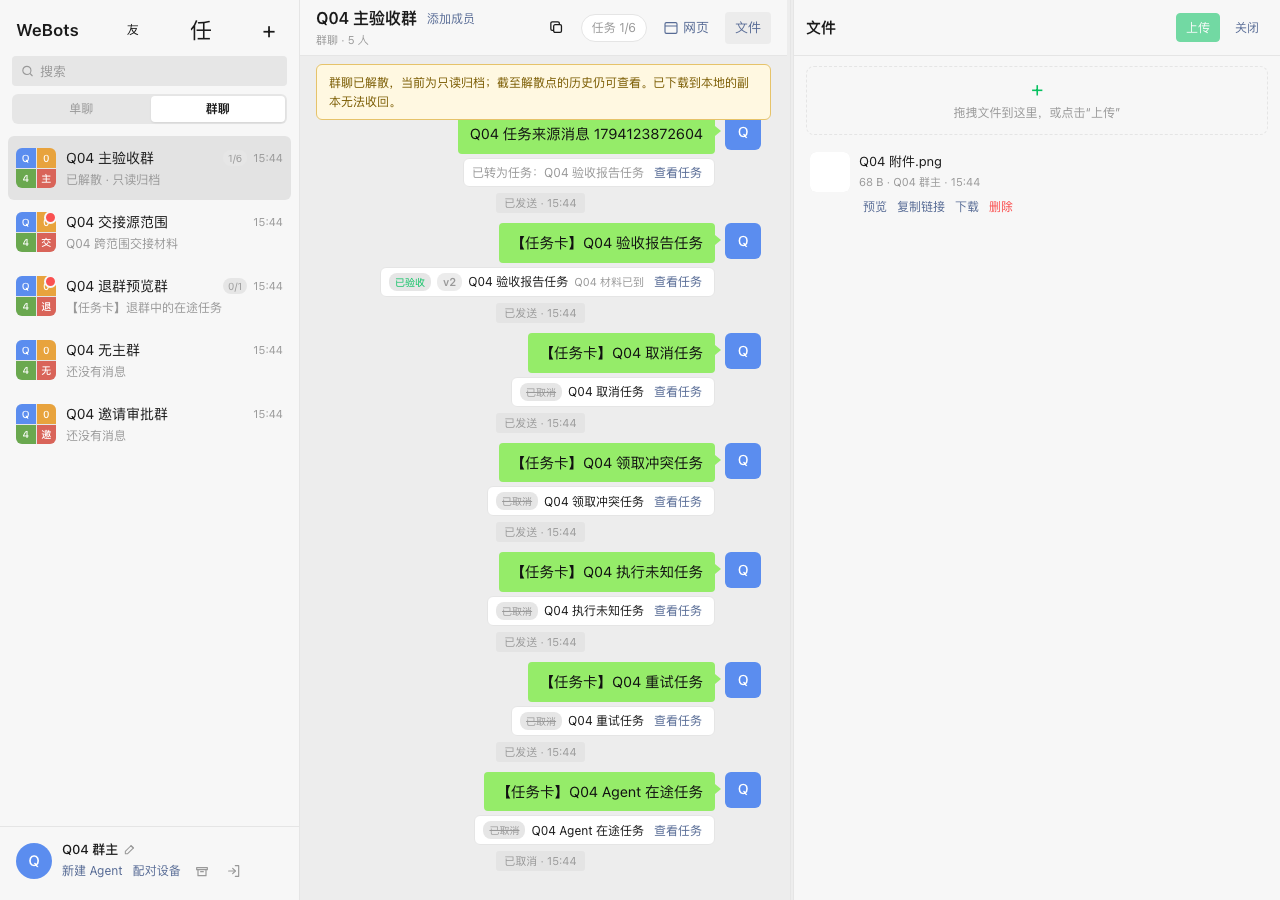
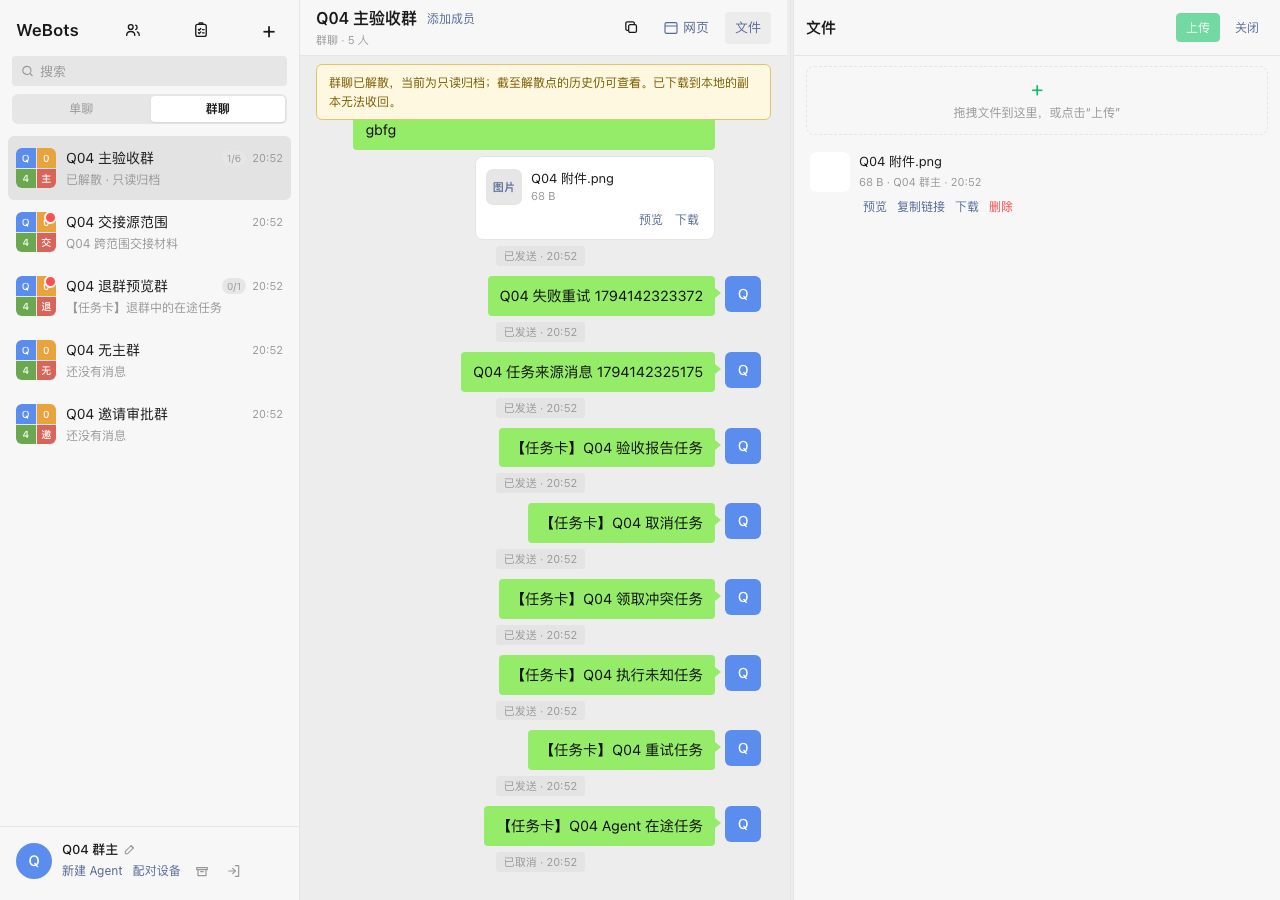
fix(web): 转为任务入口统一 hover 显示
- 人类与 Agent 消息的「转为任务」统一默认收起，hover/focus 显示；触屏保留人类入口。\n- 手动展开全文在读取与渲染后校验 activeRoomId/roomEpoch 与节点连接，切房后的旧响应不再写入新房间状态栏、气泡或文件卡片。\n- 补充浏览器验收：入口可见性、触屏可达、390px 不溢出与切房展开回归。\n- 同步 Q04 证据截图。

Changed region(s): [[0.25, 0.1244, 0.5938, 0.9644], [0.4688, 0.0, 0.5, 0.0311], [0.3125, 0.3111, 0.3438, 0.3422]]

diff --git a/scripts/verify-web.ts b/scripts/verify-web.ts
@@ -10069,7 +10069,7 @@ async function main(): Promise<void> {
       await context.close();
     }
 
-    // 2b-4b. 转为任务入口：人类常显，Agent 默认收起、hover/键盘出现，触屏仅人类可见。
+    // 2b-4b. 转为任务入口：人类与 Agent 默认收起、hover/键盘出现，触屏仅人类可见。
     {
       const convertGroup = await rawTool<RoomDetail>(data.humanToken, 'network_room_create', {
         request_id: requestId('room'),
@@ -10106,11 +10106,18 @@ async function main(): Promise<void> {
         'agent',
       );
       checkEqual(
-        '人类消息转为任务常显',
+        '人类消息转为任务默认收起',
         await humanMessage.locator('.msg-task-convert').evaluate(
           (element) => getComputedStyle(element).opacity,
         ),
-        '1',
+        '0',
+      );
+      checkEqual(
+        '人类消息转为任务默认不接收指针',
+        await humanMessage.locator('.msg-task-convert').evaluate(
+          (element) => getComputedStyle(element).pointerEvents,
+        ),
+        'none',
       );
       checkEqual(
         'Agent 消息转为任务默认收起',
@@ -10119,6 +10126,24 @@ async function main(): Promise<void> {
         ),
         '0',
       );
+      await humanMessage.hover();
+      await waitUntil(
+        async () =>
+          (await humanMessage.locator('.msg-task-convert').evaluate(
+            (element) => getComputedStyle(element).opacity,
+          )) === '1',
+        '人类消息 hover 显示转为任务',
+        5_000,
+      );
+      check('人类消息 hover 显示转为任务', true);
+      await humanMessage.locator('.msg-task-convert').click();
+      await page.locator('#task-create-modal').waitFor({ state: 'visible' });
+      check(
+        '人类消息转为任务仍打开来源任务表单',
+        ((await page.locator('#task-source-hint').innerText()) ?? '').includes('从消息创建'),
+      );
+      await page.locator('#task-create-cancel').click();
+      await page.locator('#task-create-modal').waitFor({ state: 'hidden' });
       await agentMessage.hover();
       await waitUntil(
         async () =>
@@ -10146,6 +10171,13 @@ async function main(): Promise<void> {
         '移出 hover 后 Agent 任务入口收起',
         5_000,
       );
+      checkEqual(
+        '移出 hover 后人类任务入口收起',
+        await humanMessage.locator('.msg-task-convert').evaluate(
+          (element) => getComputedStyle(element).opacity,
+        ),
+        '0',
+      );
       await agentMessage.locator('.msg-task-convert').focus();
       checkEqual(
         '键盘聚焦 Agent 任务入口时显示',
@@ -10158,6 +10190,14 @@ async function main(): Promise<void> {
       await page.locator('#task-create-modal').waitFor({ state: 'visible' });
       check('键盘可触发 Agent 消息转为任务', true);
       await page.locator('#task-create-cancel').click();
+      await humanMessage.locator('.msg-task-convert').focus();
+      checkEqual(
+        '键盘聚焦人类任务入口时显示',
+        await humanMessage.locator('.msg-task-convert').evaluate(
+          (element) => getComputedStyle(element).opacity,
+        ),
+        '1',
+      );
       await context.close();
 
       const touchContext = await browser.newContext({
@@ -10184,8 +10224,32 @@ async function main(): Promise<void> {
         true,
       );
       checkEqual(
+        '触屏人类消息转为任务常显',
+        await touchHuman.locator('.msg-task-convert').evaluate(
+          (element) => getComputedStyle(element).opacity,
+        ),
+        '1',
+      );
+      checkEqual(
+        '触屏人类消息转为任务可点击',
+        await touchHuman.locator('.msg-task-convert').evaluate(
+          (element) => getComputedStyle(element).pointerEvents,
+        ),
+        'auto',
+      );
+      await touchHuman.locator('.msg-task-convert').click();
+      await touchPage.locator('#task-create-modal').waitFor({ state: 'visible' });
+      check('触屏人类消息可打开来源任务表单', true);
+      await touchPage.locator('#task-create-cancel').click();
+      await touchPage.locator('#task-create-modal').waitFor({ state: 'hidden' });
+      checkEqual(
         '触屏 Agent 消息隐藏转为任务',
         await touchAgent.locator('.msg-task-convert').isHidden(),
+        true,
+      );
+      checkEqual(
+        '390px 消息任务入口不横向溢出',
+        await touchPage.evaluate(`document.documentElement.scrollWidth <= window.innerWidth`),
         true,
       );
       await touchContext.close();
@@ -17985,6 +18049,106 @@ async function main(): Promise<void> {
       );
       check('自动展开失败恢复后可手动展开', true);
       await failContext.context.close();
+
+      // 手动展开读取延迟期间切房：旧失败不得写入新房间状态栏与消息区。
+      const switchTarget = await rawTool<RoomDetail>(data.humanToken, 'network_room_create', {
+        request_id: requestId('room'),
+        kind: 'group',
+        title: '展开切房目标群',
+        members: [data.agentA.actor_id],
+      });
+      const switchTargetId = switchTarget.room.room_id;
+      await acceptRoomInvites(data.agentAToken, switchTargetId);
+      const switchTargetMarker = '展开切房后的新房间消息';
+      await sendRoomMessage(data.agentAToken, switchTargetId, switchTargetMarker);
+      const staleMarker = '切房前手动展开失败标记';
+      const staleTail = '切房前手动展开的结尾';
+      const staleSend = await rawTool<{ message: { message_id: string } }>(
+        data.humanToken,
+        'network_message_send',
+        {
+          request_id: requestId('msg'),
+          client_message_id: crypto.randomUUID(),
+          room_id: mdRoomId,
+          invoke: [],
+          body: [staleMarker, '切房前长正文 '.repeat(200), staleTail].join('\n'),
+        },
+      );
+      const staleMessageId = staleSend.message.message_id;
+      const staleContext = await makeContext(
+        browser,
+        data.humanToken,
+        { width: 1280, height: 900 },
+        allErrors,
+      );
+      let releaseStaleRead: (() => void) | null = null;
+      let staleReadStarted = false;
+      await staleContext.page.route('**/mcp', async (route) => {
+        const request = route.request();
+        if (request.headers()['mcp-name'] !== 'network_message_read') {
+          await route.continue();
+          return;
+        }
+        const body = request.postDataJSON() as {
+          id?: unknown;
+          params?: { arguments?: { message_id?: string } };
+        } | null;
+        if (body?.params?.arguments?.message_id !== staleMessageId) {
+          await route.continue();
+          return;
+        }
+        staleReadStarted = true;
+        await new Promise<void>((resolve) => {
+          releaseStaleRead = resolve;
+        });
+        await route.fulfill({
+          status: 200,
+          contentType: 'application/json',
+          body: JSON.stringify({
+            jsonrpc: '2.0',
+            id: body?.id ?? null,
+            result: {
+              isError: true,
+              content: [
+                {
+                  type: 'text',
+                  text: JSON.stringify({ code: 'INTERNAL', message: '模拟切房后展开失败' }),
+                },
+              ],
+            },
+          }),
+        });
+      });
+      await staleContext.page.goto(`${server.base}/c/${mdRoomId}`);
+      await waitRoom(staleContext.page, mdRoomId, 'AI Markdown 群');
+      const staleMessage = staleContext.page
+        .locator('#messages .msg')
+        .filter({ hasText: staleMarker })
+        .last();
+      await staleMessage.locator('.expand').waitFor();
+      await staleMessage.locator('.expand').click();
+      await waitUntil(
+        () => staleReadStarted && releaseStaleRead !== null,
+        '切房前手动展开请求已发出',
+        5_000,
+      );
+      await staleContext.page.locator(roomLink(switchTargetId)).click();
+      await waitRoom(staleContext.page, switchTargetId, '展开切房目标群');
+      await waitForText(staleContext.page, '#messages', switchTargetMarker);
+      const targetStatusBefore = (await staleContext.page.locator('#status').textContent()) ?? '';
+      const targetMessagesBefore =
+        (await staleContext.page.locator('#messages').textContent()) ?? '';
+      releaseStaleRead!();
+      await sleep(800);
+      const targetStatusAfter = (await staleContext.page.locator('#status').textContent()) ?? '';
+      const targetMessagesAfter =
+        (await staleContext.page.locator('#messages').textContent()) ?? '';
+      checkEqual('切房后旧展开失败不覆盖状态栏', targetStatusAfter, targetStatusBefore);
+      check('切房后旧展开失败不覆盖消息区', targetMessagesAfter === targetMessagesBefore);
+      check('切房后旧展开失败不串入新房间', !targetMessagesAfter.includes(staleMarker));
+      check('切房后新房间仍显示目标消息', targetMessagesAfter.includes(switchTargetMarker));
+      await staleContext.page.unroute('**/mcp');
+      await staleContext.context.close();
 
       // 60 条 AI 消息覆盖「加载更早消息」与 Markdown 升级的高度补偿。
       const scrollGroup = await rawTool<RoomDetail>(data.humanToken, 'network_room_create', {

diff --git a/src/web/chat-render-script.ts b/src/web/chat-render-script.ts
@@ -259,7 +259,7 @@ function messageItem(item) {
   const element = document.createElement('li');
   element.className = 'msg' + (mine ? ' mine has-receipt' : '');
   element.dataset.messageId = item.message_id;
-  // 任务入口按发送方类型决定常显或悬停显示；仅影响展示，不改变任务契约。
+  // 任务入口统一在消息悬停或聚焦时显示；触屏保留人类入口，仅影响展示，不改变任务契约。
   element.dataset.senderKind = agent ? 'agent' : 'human';
   // 任务入口由后续任务片段按同一 message_id 补齐；这里只保留定位数据。
   element.dataset.messagePreview = String(item.preview || '');
@@ -296,13 +296,21 @@ function messageItem(item) {
     expand.className = 'expand';
     expand.textContent = '展开全文';
     expand.addEventListener('click', async function () {
+      const roomId = activeRoomId;
+      const epoch = roomEpoch;
+      const stale = function () {
+        return !isActiveRoom(roomId, epoch) || !expand.isConnected || !bubble.isConnected;
+      };
       expand.disabled = true;
       expand.textContent = '正在展开…';
       // 预览阶段 bundle 失败时，展开只强制重试一次，避免每次点击都打 404。
       const retry = bubble.dataset.markdownUnavailable === '1';
       try {
         const fullText = await readMessage(item.message_id);
+        // 读取期间切房或重建：旧响应不得写入新房间的状态栏、气泡或文件卡片。
+        if (stale()) return;
         const rendered = await renderMessageBody(bubble, fullText, item, agent, false, retry);
+        if (stale()) return;
         filesRef.current = mountMessageFiles(fullText, filesRef.current);
         if (filesRef.current && !filesRef.current.isConnected) {
           content.insertBefore(filesRef.current, expand);
@@ -316,6 +324,7 @@ function messageItem(item) {
           expand.textContent = '展开全文';
         }
       } catch (error) {
+        if (stale()) return;
         expand.disabled = false;
         expand.textContent = '展开全文';
         statusElement.textContent = '读取正文失败：' + error.message;

diff --git a/src/web/chat-styles.ts b/src/web/chat-styles.ts
@@ -473,14 +473,15 @@ export const APP_STYLE = `
   .msg-task-convert { padding: 0 4px; border: 0; background: transparent;
     color: var(--wx-muted); font-size: 11px; cursor: pointer; }
   .msg-task-convert:hover { color: var(--wx-link); }
-  /* Agent 消息的任务入口默认收起，悬停或键盘焦点进入时出现；人类消息保持常显。 */
-  .msg[data-sender-kind="agent"] .msg-task-convert { opacity: 0; pointer-events: none; }
-  .msg[data-sender-kind="agent"] .msg-task-convert:focus-visible { opacity: 1; }
-  .msg[data-sender-kind="agent"]:hover .msg-task-convert,
-  .msg[data-sender-kind="agent"]:focus-within .msg-task-convert {
+  /* 人类与 Agent 消息的任务入口一致：默认收起，悬停或键盘焦点进入时出现。 */
+  .msg .msg-task-convert { opacity: 0; pointer-events: none; }
+  .msg .msg-task-convert:focus-visible { opacity: 1; pointer-events: auto; }
+  .msg:hover .msg-task-convert,
+  .msg:focus-within .msg-task-convert {
     opacity: 1; pointer-events: auto; }
   @media (hover: none) {
-    /* 触屏没有可靠的 hover：只保留人类消息入口，避免渲染无法稳定触发的隐藏按钮。 */
+    /* 触屏没有可靠的 hover：保留人类消息入口，Agent 入口维持隐藏。 */
+    .msg[data-sender-kind="human"] .msg-task-convert { opacity: 1; pointer-events: auto; }
     .msg[data-sender-kind="agent"] .msg-task-convert { display: none; }
   }
   .msg.task-message-flash .bubble { outline: 2px solid var(--wx-link);

diff --git a/scripts/lib/q04-tasks.ts b/scripts/lib/q04-tasks.ts
@@ -166,6 +166,8 @@ export async function runTaskAcceptance(state: Q04State, browser: Browser): Prom
       .locator('#messages .msg')
       .filter({ hasText: sourceText })
       .first();
+    // 人类消息的任务入口默认收起，悬停消息后出现；点击仍打开同一来源任务表单。
+    await sourceMessage.hover();
     await sourceMessage.locator('.msg-task-convert').click();
     await creator.locator('#task-create-modal').waitFor({ state: 'visible' });
     check(
